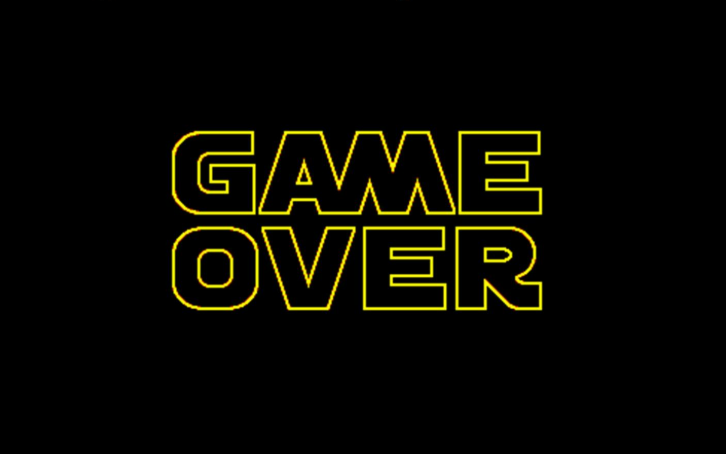
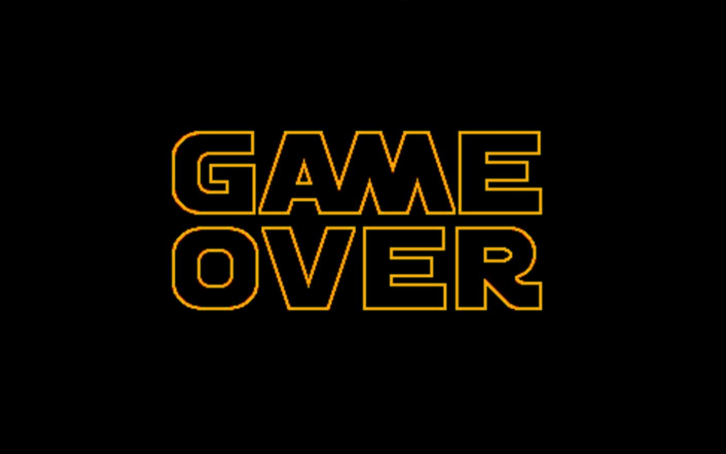
changed color on go.png and added endong to game euth resermt

diff --git a/assets/javascript/game.js b/assets/javascript/game.js
@@ -1,26 +1,26 @@
 var players = {
     reble1: {
     name: "Luke",
-    healthPoints: 100,
-    attackPoints: 10,
+    healthPoints: 120,
+    attackPoints: 24,
     counterPoints: 150
     },   
     reble2: {
     name: "Chewbacca",
-    healthPoints: 100,
-    attackPoints: 6,
+    healthPoints: 105,
+    attackPoints: 18,
     counterPoints: 175
     },   
     reble3: {
     name: "Han Solo",
-    healthPoints: 100,
-    attackPoints: 7,
+    healthPoints: 110,
+    attackPoints: 20,
     counterPoints: 120
     },   
     dark1: {
     name: "Boba Fett",
     healthPoints: 100,
-    attackPoints: 8,
+    attackPoints: 7,
     counterPoints: 150
     },   
     dark2: {
@@ -32,7 +32,7 @@ var players = {
     dark3: {
     name: "Darth Vader",
     healthPoints: 100,
-    attackPoints: 9,
+    attackPoints: 11,
     counterPoints: 180
     }
     };
@@ -50,7 +50,7 @@ $("#replay").click(function() {
 
 $(".reble-button").click(function(){
 if($(this).is("#luke")) {
-    if(player1selected !== "true"){
+    if(player1selected.length === 0){
     console.log("Player 1 picked Luke");
     $("#luke").prependTo("#player1");
     $( this ).addClass("grow-image");
@@ -61,11 +61,11 @@ if($(this).is("#luke")) {
     console.log(selectedRebel1);
     player1selected.push("true");
     console.log(player1selected);
-
+    }
 
 
 }if($(this).is("#chewy")) {
-    if(player1selected !== "true"){
+    if(player1selected.length === 0){
     console.log("Player 1 picked Chewbacca");
     $("#chewy").prependTo("#player1");
     $( this ).addClass("grow-image");
@@ -75,9 +75,10 @@ if($(this).is("#luke")) {
     $("#power1").text("Power: " + players.reble2.attackPoints);
     console.log(selectedRebel1);
     player1selected.push("true");
+    }
 
 }if($(this).is("#han")) {
-    if(player1selected !== "true"){
+    if(player1selected.length === 0){
     console.log("Player 1 picked Han Solo");
     $("#han").prependTo("#player1");
     $( this ).addClass("grow-image");
@@ -87,8 +88,9 @@ if($(this).is("#luke")) {
     $("#power1").text("Power: " + players.reble3.attackPoints);
     console.log(selectedRebel1);
     player1selected.push("true");
-}
-}}}});
+    }
+
+}});
 
 
 $(".dark-button").click(function(){
@@ -153,7 +155,8 @@ $("#attack1").click(function(){
     // console.log(selectedRebel1.attackPoints);
     // console.log(selectedDark1.healthPoints);
     selectedRebel1.healthPoints = selectedRebel1.healthPoints - selectedDark1.attackPoints;
-    selectedDark1.healthPoints = selectedDark1.healthPoints - selectedRebel1.attackPoints;
+
+    selectedDark1.healthPoints = selectedDark1.healthPoints - selectedRebel1.attackPoints ^ 2;
     // console.log(selectedDark1.healthPoints);
     if(player1selected == "true" && player2selected == "true") {
     if  (selectedRebel1.healthPoints < 0 ) {
@@ -166,7 +169,7 @@ $("#attack1").click(function(){
         resetPlayer2();
         $("#player1").detach().append(".rebels");
         $("#replay").html("<button id='replay' type='button' class='btn btn-outline-warning'>PLAY AGAIN </button>");
-        
+        player1selected = [];
         }
 
     $("#health1").text("Health: " + selectedRebel1.healthPoints);
@@ -181,10 +184,8 @@ $("#attack1").click(function(){
         $("#darth").detach();
         }
         resetPlayer2();
-        console.log(player2selected);
         player2selected = [];
-        console.log(player2selected);
-        
+     
         
         
     }}});
